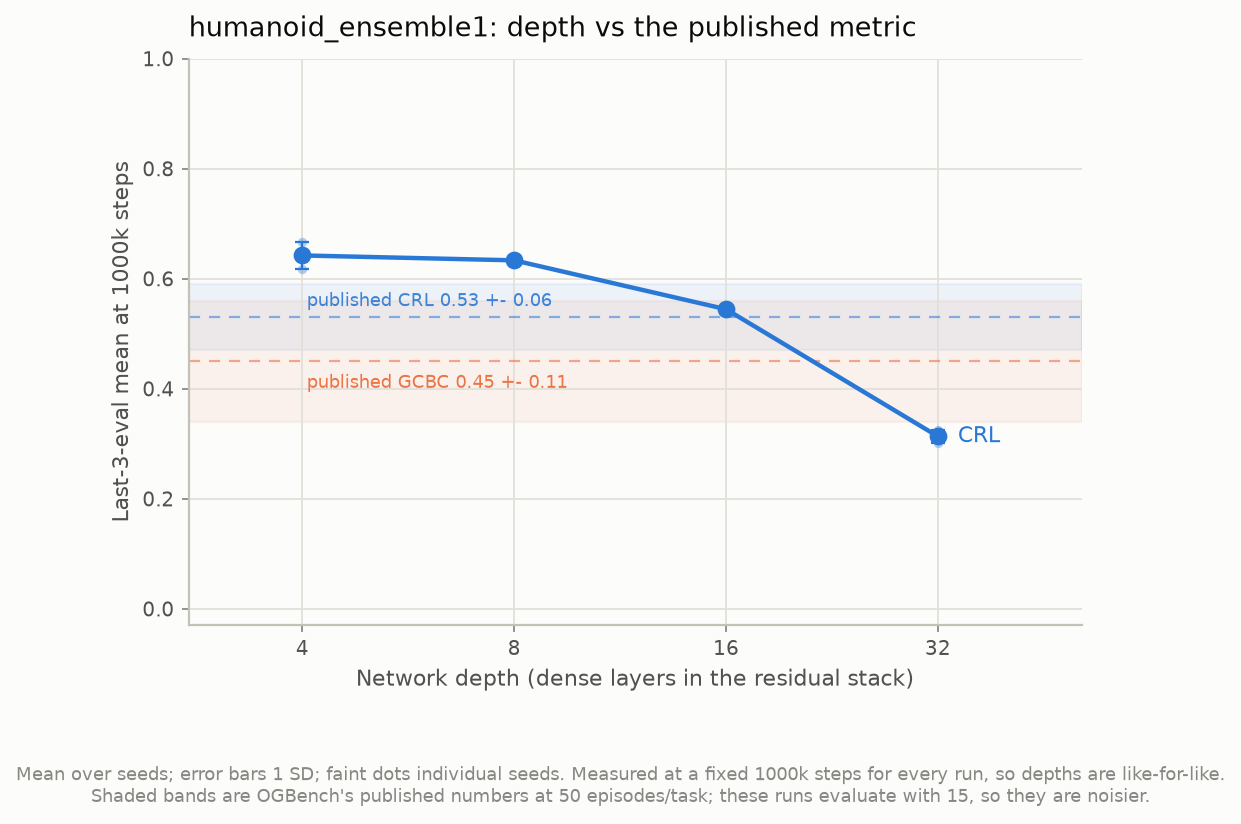
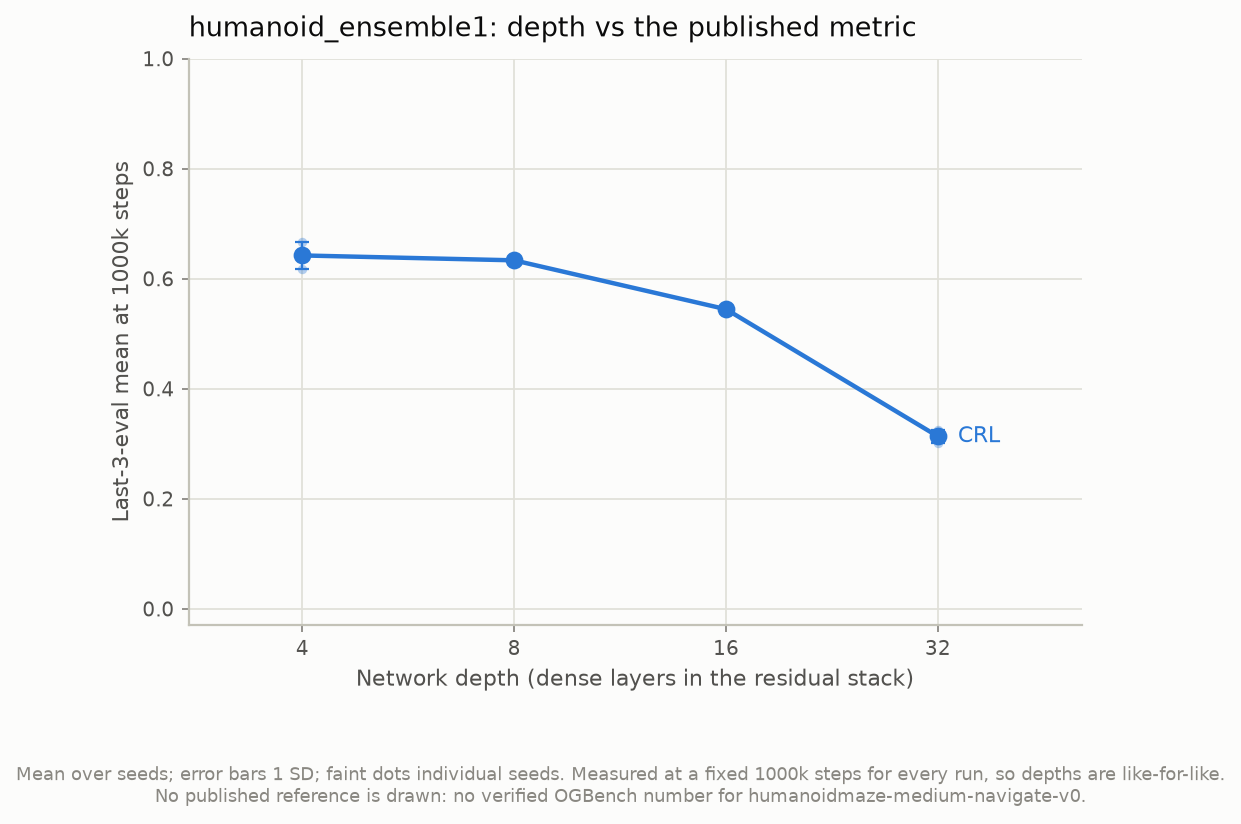
fig1b: the published reference is per-dataset, not a global constant
PUBLISHED was a bare {agent: value} pair holding OGBench's antmaze-medium-stitch
numbers (CRL 0.53 +/- 0.06, GCBC 0.45 +/- 0.11) and was shaded onto every grid.
On humanoid_ensemble1 that drew an antmaze reference across a humanoidmaze
chart, inviting the reader to conclude "depth 32 falls below published CRL" from
a number measured on a different environment.

Now keyed by dataset. A grid whose dataset has no verified published number gets
no band and its caption says which dataset it lacks one for. Only
antmaze-medium-stitch-v0 is listed, since it is the only one verified in
research_log.md; adding an entry requires a source.

Found by looking at the rendered figure rather than the code.

diff --git a/src/scripts/plot_results.py b/src/scripts/plot_results.py
@@ -155,6 +155,7 @@ def load_runs(grid: str) -> list[dict]:
         rec = {
             "run_dir": d,
             "agent": cfg["agent"]["agent"],
+            "dataset": cfg.get("dataset"),
             "depth": cfg["arch"]["depth"],
             "size": cfg["size"],
             "seed": cfg["seed"],
@@ -623,8 +624,23 @@ def fig_heatmap(runs, out_dir, grid):
 # Figure 1b -- the comparable headline: last-3-eval mean, pinned to a common step
 # ---------------------------------------------------------------------------
 
-#: OGBench's published antmaze-medium-stitch numbers (mean of last 3 evals, 50 eps/task).
-PUBLISHED = {"crl": (0.53, 0.06), "gcbc": (0.45, 0.11)}
+#: OGBench's published numbers, keyed BY DATASET (mean of last 3 evals, 50 eps/task).
+#:
+#: Keyed by dataset because it was previously a bare {agent: value} pair holding the
+#: antmaze-medium-stitch numbers, which were then drawn on every grid -- including
+#: humanoid_ensemble1, where they are a reference from a different environment and
+#: invite exactly the wrong comparison. A grid whose dataset is not listed here gets no
+#: band and says so in its caption. Add an entry only with a source: these two are
+#: verified in research_log.md (CRL 53 +/- 6, GCBC 45 +/- 11).
+PUBLISHED_BY_DATASET = {
+    "antmaze-medium-stitch-v0": {"crl": (0.53, 0.06), "gcbc": (0.45, 0.11)},
+}
+
+
+def published_for(runs) -> dict:
+    """The published reference for these runs' dataset, or {} if none is verified."""
+    ds = {r.get("dataset") for r in runs if r.get("dataset")}
+    return PUBLISHED_BY_DATASET.get(next(iter(ds)), {}) if len(ds) == 1 else {}
 
 #: The step every run in a depth comparison must be measured at. The plateau rule stops
 #: runs between 0.9M and 1.9M steps, so an unpinned last-3 compares different points on
@@ -682,17 +698,17 @@ def fig_last3_vs_depth(runs, out_dir, grid):
                 va="center", color=MUTED, fontsize=12)
         depths_seen = set(C.GRID_DEPTHS)
 
-    # Published bands as shaded reference, not series.
-    for agent, (mu, sd) in PUBLISHED.items():
+    # Published bands as shaded reference, not series -- and only for the dataset they
+    # were actually measured on.
+    published = published_for(runs)
+    for i, (agent, (mu, sd)) in enumerate(sorted(published.items())):
         ax.axhspan(mu - sd, mu + sd, color=SERIES[agent], alpha=0.07, zorder=0)
         ax.axhline(mu, color=SERIES[agent], linewidth=1.0, linestyle=(0, (5, 4)),
                    alpha=0.55, zorder=1)
-    ax.annotate("published CRL 0.53 +- 0.06", (min(depths_seen), PUBLISHED["crl"][0]),
-                textcoords="offset points", xytext=(2, 5), color=SERIES["crl"],
-                fontsize=8, alpha=0.9)
-    ax.annotate("published GCBC 0.45 +- 0.11", (min(depths_seen), PUBLISHED["gcbc"][0]),
-                textcoords="offset points", xytext=(2, -12), color=SERIES["gcbc"],
-                fontsize=8, alpha=0.9)
+        ax.annotate(f"published {SERIES_LABEL[agent]} {mu:.2f} +- {sd:.2f}",
+                    (min(depths_seen), mu), textcoords="offset points",
+                    xytext=(2, 5 if agent == "crl" else -12), color=SERIES[agent],
+                    fontsize=8, alpha=0.9)
 
     ticks = sorted(depths_seen)
     ax.set_xscale("log", base=2)
@@ -705,8 +721,14 @@ def fig_last3_vs_depth(runs, out_dir, grid):
                title=f"{grid}: depth vs the published metric")
     cap = ("Mean over seeds; error bars 1 SD; faint dots individual seeds. Measured at "
            f"a fixed {COMMON_STEP // 1000}k steps for every run, so depths are "
-           "like-for-like.\nShaded bands are OGBench's published numbers at 50 "
-           "episodes/task; these runs evaluate with 15, so they are noisier.")
+           "like-for-like.")
+    ds = {r.get("dataset") for r in runs if r.get("dataset")}
+    if published:
+        cap += ("\nShaded bands are OGBench's published numbers for this dataset at 50 "
+                "episodes/task; these runs evaluate with 15, so they are noisier.")
+    else:
+        cap += ("\nNo published reference is drawn: no verified OGBench number for "
+                + (", ".join(sorted(ds)) if ds else "this dataset") + ".")
     if excluded:
         cap += "\nNot yet at that step, so omitted: " + ", ".join(excluded) + "."
     fig.text(0.5, -0.13, cap, color=MUTED, fontsize=8, ha="center")

diff --git a/results/humanoid_ensemble1/README.md b/results/humanoid_ensemble1/README.md
@@ -234,3 +234,10 @@ lower on best-eval and 33 points lower settled. On this grid, depth is a pure lo
 2. The same header says the changes from `phase1_repro` are "only these" and lists two;
    `discount` also differs, via `use_published_flags`. The YAML notes the discount
    separately, lower down, but the "only these" list is wrong as written.
+3. **`fig1b` was drawing the wrong published reference.** `plot_results.py` held
+   OGBench's `antmaze-medium-stitch` numbers (CRL 0.53, GCBC 0.45) as a bare
+   `{agent: value}` constant and shaded them onto *every* grid — so this grid's chart
+   invited a comparison against a different environment's published result. The
+   constant is now keyed by dataset, a grid with no verified number gets no band, and
+   the caption says so. Only `antmaze-medium-stitch-v0` is listed, because it is the
+   only one verified (research_log §766).
